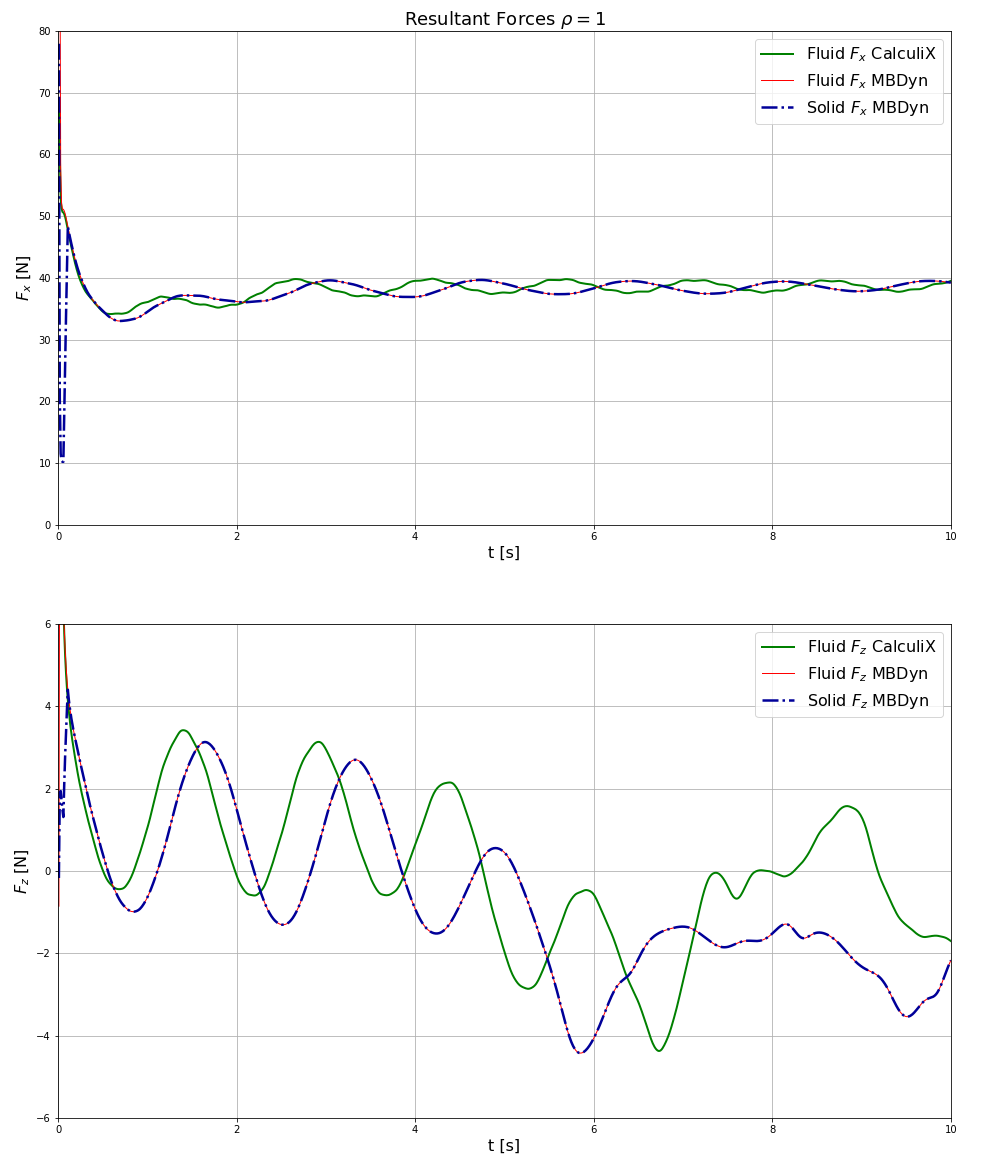
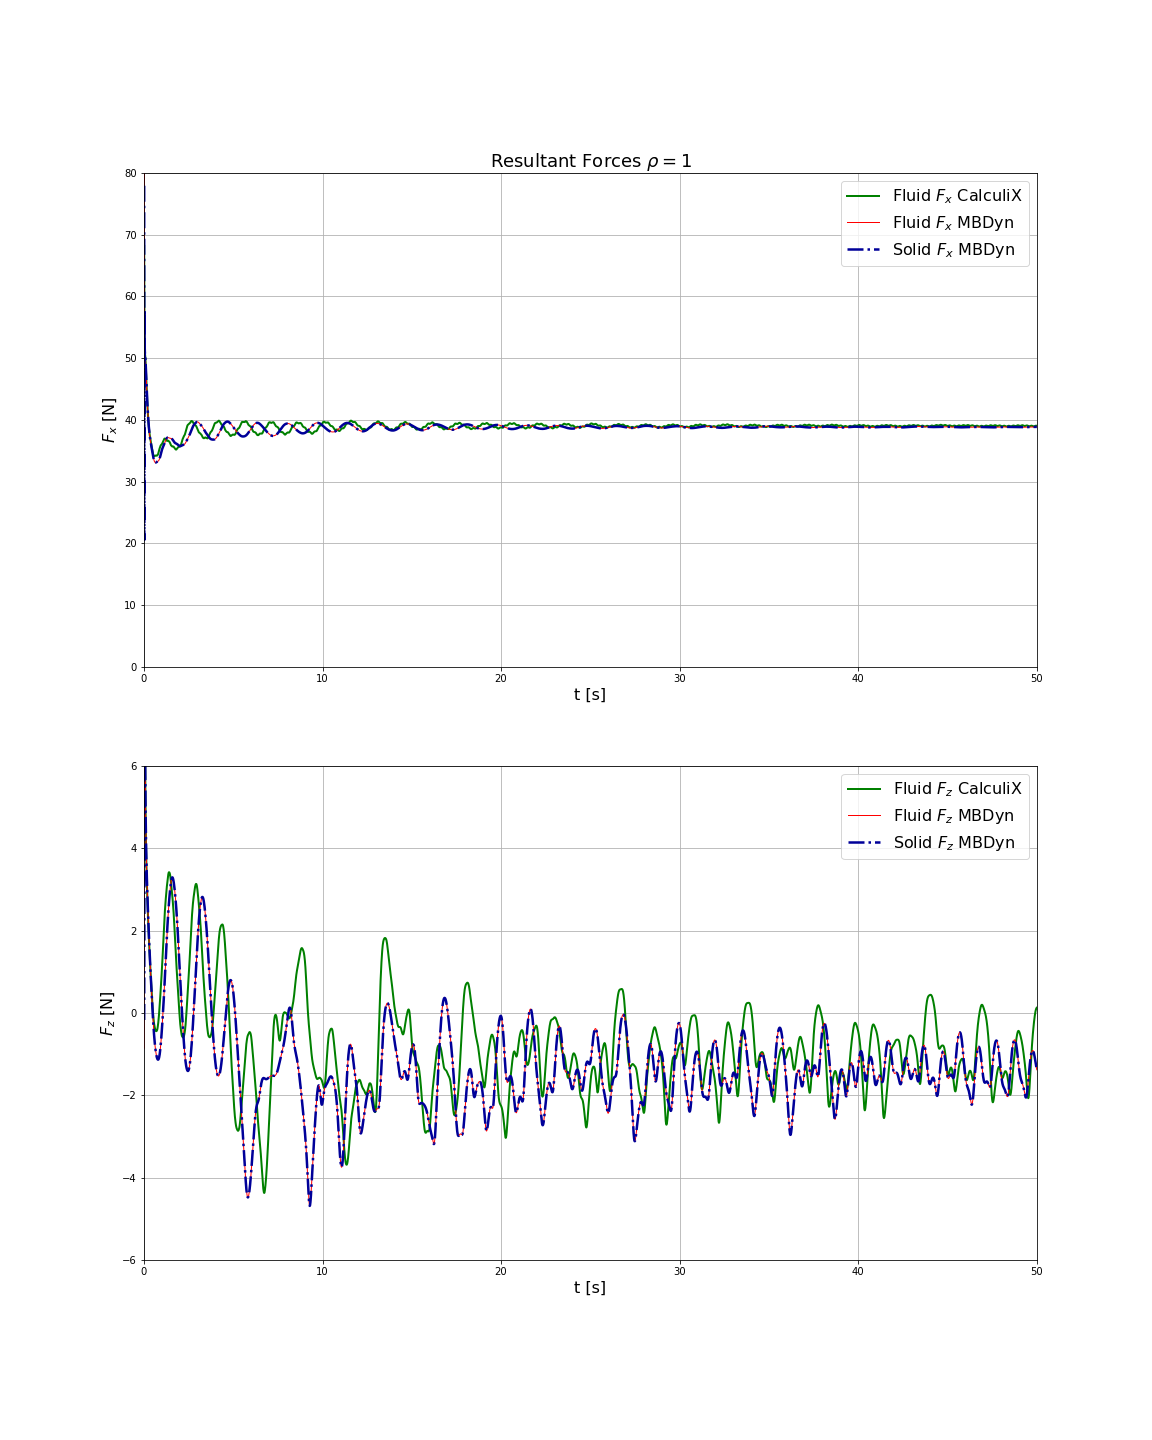
vert-flap update figures

diff --git a/chapters/06_Testcases.tex b/chapters/06_Testcases.tex
@@ -245,14 +245,15 @@ The fluid domain is discretized in an structured hexaedral mesh as depicted in F
 
 \begin{table}[!h]
 	\begin{center}
-		\begin{tabular}{ l| c | c l } 
-			parameter & & value &    \\ 
+		\begin{tabular}{ l c l | c } 
+			parameter & & & value  \\ 
 			\hline
-			fluid density  & $\rho$ & 1 & \si{kg.m^{-3}}   \\
-			kinematic viscosity & $\nu$ & $10^{-3}$ & \si{m^2.s^{-1}} \\
+			fluid density  & $\rho$ & \si{kg.m^{-3}} & 1   \\
+			kinematic viscosity & $\nu$& \si{m^2.s^{-1}} & $10^{-3}$  \\
 %			Reynolds length & $l_{Re}$ & $0.1$ & \si{m} \\
 %			Reynolds number & Re & $\approx 1000$ & \\
-			flow velocity & $\vec{v}$ & 10 & \si{m.s^{-1}}			
+			flow velocity & $\vec{v}$& \si{m.s^{-1}} & 10 \\
+			flow type & & & laminar \\
 		\end{tabular}
 	\end{center}
 	\caption{Vertical flap: fluid properties}
@@ -263,7 +264,7 @@ The fluid domain is discretized in an structured hexaedral mesh as depicted in F
 
 \begin{table}[!h]
 	\begin{center}
-		\begin{tabular}{ l| c | c } 
+		\begin{tabular}{ l c | c } 
 			parameter & & value   \\ 
 			\hline
 			number of mesh points  & $n_{dof}$ & 17344     \\
@@ -284,18 +285,17 @@ The coupling between the fluid solver and the structural solver is the same for 
 
 \begin{table}[!h]
 	\begin{center}
-		\begin{tabular}{ l| c | c l } 
-			parameter & & value   \\ 
+		\begin{tabular}{ l c  l| c } 
+			parameter & & & value   \\ 
 			\hline
-			simulation time  & $t$ & 5 & \si{s}     \\
-			step size & $\Delta t$ & $10^{-2}$ & \si{s}  \\
+			simulation time  & $t$& \si{s} & 5      \\
+			step size & $\Delta t$ & \si{s} & $10^{-2}$   \\
 			\hline
-			coupling scheme & & serial implicit & \\
-			coupling algorithm & & IQN-ILS & \\
-			displacement rel. convergence limit & & $10^{-4}$ & \\
-			force rel. convergence limit & & $10^{-3}$ & \\
-			
-			interface mesh mapping & & RBF & \\
+			coupling scheme & & & serial implicit  \\
+			coupling algorithm & & &  IQN-ILS  \\
+			displacement rel. convergence limit & & & $10^{-4}$ \\
+			force rel. convergence limit &&  & $10^{-3}$  \\
+      		interface mesh mapping & & & RBF  \\
 			
 		\end{tabular}
 	\end{center}
@@ -309,7 +309,7 @@ The coupling between the fluid solver and the structural solver is the same for 
 
 \subsection{Structural Solver: CalculiX}
 
-The structural model built in CalculiX is composed of 40 \textbf{C3D8}\footnote{general purpose linear brick element} as represented in Figure \ref{fig:cx-mesh}. 
+The structural model built in CalculiX is composed of 40 \textbf{C3D8}\footnote{general purpose linear brick element with 8 nodes} as represented in Figure \ref{fig:cx-mesh}. 
 
 \begin{figure}[htbp!]
 	\centering
@@ -322,12 +322,12 @@ The properties of the solid are reported in Table \ref{table:ex1-solid}.
 
 \begin{table}[!h]
 	\begin{center}
-		\begin{tabular}{ l| c | c l } 
+		\begin{tabular}{ l c  l | c } 
 			parameter & & value &    \\ 
 			\hline
-			solid density  & $\rho$ & 3000 & \si{kg.m^{-3}}   \\
-			Elastic modulus  & E & $4\cdot 10^6$ & \si{Pa}   \\
-			Poisson coefficient & $\nu$ & $0.3$ &  \\
+			solid density  & $\rho$ & \si{kg.m^{-3}} & 3000    \\
+			Elastic modulus  & E & \si{Pa} & $4\cdot 10^6$    \\
+			Poisson coefficient & $\nu$ & & $0.3$  \\
 			%			Reynolds length & $l_{Re}$ & $0.1$ & \si{m} \\
 			%			Reynolds number & Re & $\approx 1000$ & \\
 		\end{tabular}
@@ -373,7 +373,8 @@ The problem considered is characterized by the adimensional parameters given in 
 \end{figure}
 
 
-The solutions between CalculiX and MBDyn are first compared in terms of resultants applied to the structure during the simulation (Figures \ref{fig:vf_force} and \ref{fig:vf_moment}), then the tip displacement in $x$ direction is considered in Figure \ref{fig:vf_displacement}. The forces and moments applied to the structure in the two cases are very close. The only initial difference is due to a short ramp in the application of the forces to MBDyn. The tip displacement follows the same path. It appears that the MBDyn solution produces a slightly greater oscillation with a longer period. The attenuation is comparable. The damping parameter plays a significan role in the behavior of the structure. Different trials showed that the value of $0.002$ could be good to give results close to the ones given by CalculiX.
+The solutions between CalculiX and MBDyn are first compared in terms of resultants applied to the structure during the simulation (Figures \ref{fig:vf_force} and \ref{fig:vf_moment}), then the tip displacement in $x$ direction is considered in Figure \ref{fig:vf_displacement}. The forces and moments applied to the structure in the two cases are very close. 
+The tip displacements shows that both structures exhibit the same damping and the oscillating frequency is very close: CalculiX shows a slightly higher frequecy and a more visible second order frequency. The MBDyn structure looks a little more flexible: after 50 seconds of simulation tends to $58mm$ of tip displacement in $x$ direction, while the same structure in CalculiX tends to $53mm$ of displacement. 
 
 \begin{figure}[htbp!]
 	\centering
@@ -411,7 +412,7 @@ As to convergence and number of iterations between the two solvers, Figure \ref{
 
 \begin{figure}[htbp!]
 	\centering
-	\includegraphics[width=0.9\textwidth]{images/vert_flap/MBD_iterations_rho1.png}
+	\includegraphics[width=0.82\textwidth]{images/vert_flap/MBD_iterations_rho1.png}
 	\caption{vertical flap: MBDyn convergence and iterations}
 	\label{fig:vf_mbd_iter}
 \end{figure}
@@ -421,21 +422,112 @@ Finally, MBDyn allows to analyze the internal forces of each beam, as represente
 
 \begin{figure}[htbp!]
 	\centering
-	\includegraphics[width=0.9\textwidth]{images/vert_flap/OF-MBDyn_rho1_act.png}
+	\includegraphics[width=0.82\textwidth]{images/vert_flap/OF-MBDyn_rho1_act.png}
 	\caption{vertical flap: MBDyn convergence and iterations}
 	\label{fig:vf_mbd_internal}
 \end{figure}
 
 
-
+\newpage
 
 \section{Vertical flap: compressible regime}
 \label{sec:su2-mbd}
 
-A model similar to the one described in the previous section has been used to test the coupling capabilities of the adapter with a different fluid solver: SU2\footnote{\href{https://su2code.github.io/}{su2code.github.io}}. The coupling adapter between SU2 and preCICE allows to build FSI simulations in compressible regime, to use a bidimensional mesh and requires that the structural adapter exchanges \textit{displacement deltas}. For those reasons a similar model has been built. 
+A model similar to the one described in the previous section has been used to test the coupling capabilities of the adapter with a different fluid solver: SU2\footnote{\href{https://su2code.github.io/}{su2code.github.io}}. The coupling adapter between SU2 and preCICE allows to build FSI simulations in compressible regime. Besides, SU2 allows to define strictly bidimensional domains, while OpenFOAM and MBDyn are strictly tridimensional. Bidimensionality is enforced in OenFOAM using \textit{empty} boundary conditions, while in MBDyn is enforced through constraints on nodes.
+For those reasons a similar model has been built. 
 
 
 \subsection{Fluid domain}
+
+The fluid domain is represented in Figure \ref{fig:comp-domain}. The inlet is on the left with uniform flow velocity, the outlet is on the right, while all other boundaries are \textit{slip} walls.
+
+
+\begin{figure}[htbp!]
+	\centering
+	\begin{tikzpicture}
+		\point{a}{-4}{0};
+		\point{b}{-0.1}{0};
+		\point{c}{0.1}{0};
+		\point{d}{8}{0};
+		\point{e}{-0.1}{1};
+		\point{f}{0.1}{1};
+		\point{g}{-4}{3};
+		\point{h}{8}{3};
+		
+		\point{i}{-3.5}{0.5};
+		
+		\beam{2}{a}{b};
+		\beam{2}{c}{d};
+		\beam{2}{a}{g};
+		\beam{2}{d}{h};
+		\beam{2}{g}{h};
+		\beam{4}{b}{e};
+		\beam{4}{e}{f};
+		\beam{4}{f}{c};
+		
+		\dimensioning{1}{g}{h}{3.5}[$20m$];
+		\dimensioning{1}{a}{b}{-0.6}[$4m$];
+		\dimensioning{2}{d}{h}{8.5}[$4m$];
+		
+		\dimensioning{1}{e}{f}{1.25}[$0.1m$];
+		\dimensioning{2}{c}{f}{0.8}[$1m$];
+		
+		\lineload{1}{a}{g};
+		
+		\load{1}{i}[180][1][-1];
+		\load{1}{i}[-90][1][-1];
+		\notation{1}{-2.5,0.25}{x};
+		\notation{1}{-3.75,1.5}{z};
+		%\dscaling{3}{0.4};
+		%\daxis{1}{1.5 ,0 ,0}[right]][above];
+	\end{tikzpicture}
+	\caption{vertical flap: fluid domain}
+	\label{fig:comp-domain}
+\end{figure}
+
+
+The fluid domain is discretized in an unstructured triangular mesh as depicted in Figure \ref{fig:comp-mesh}. The main fluid and mesh values are given in Table \ref{table:comp-fluid} and \ref{table:comp-mesh}. 
+
+\begin{figure}[htbp!]
+	\centering
+	\includegraphics[width=0.9\textwidth]{images/comp-mesh1}
+	\caption{vertical flap: fluid mesh}
+	\label{fig:comp-mesh}
+\end{figure}
+
+
+\begin{table}[!h]
+	\begin{center}
+		\begin{tabular}{ l c l | c } 
+			parameter & & & value  \\ 
+			\hline
+			fluid density  & $\rho$ & \si{kg.m^{-3}} & 1   \\
+			kinematic viscosity & $\nu$& \si{m^2.s^{-1}} & $10^{-3}$  \\
+%			Reynolds length & $l_{Re}$ & $0.1$ & \si{m} \\
+%			Reynolds number & Re & $\approx 1000$ & \\
+			flow velocity & $\vec{v}$& \si{m.s^{-1}} & 10 \\
+			flow type & & & laminar \\
+		\end{tabular}
+	\end{center}
+	\caption{Vertical flap: fluid properties}
+	\label{table:comp-fluid}
+\end{table}
+
+
+
+\begin{table}[!h]
+	\begin{center}
+		\begin{tabular}{ l c | c } 
+			parameter & & value   \\ 
+			\hline
+			number of mesh points  & $n_{dof}$ & 17344     \\
+			number of cells & $n_c$ & 8400  \\
+			number of interface cells  & $n_{int}$ & 42  \\			
+		\end{tabular}
+	\end{center}
+	\caption{Vertical flap: mesh properties}
+	\label{table:comp-mesh}
+\end{table}
 
 
 \subsection{Coupling parameters}
